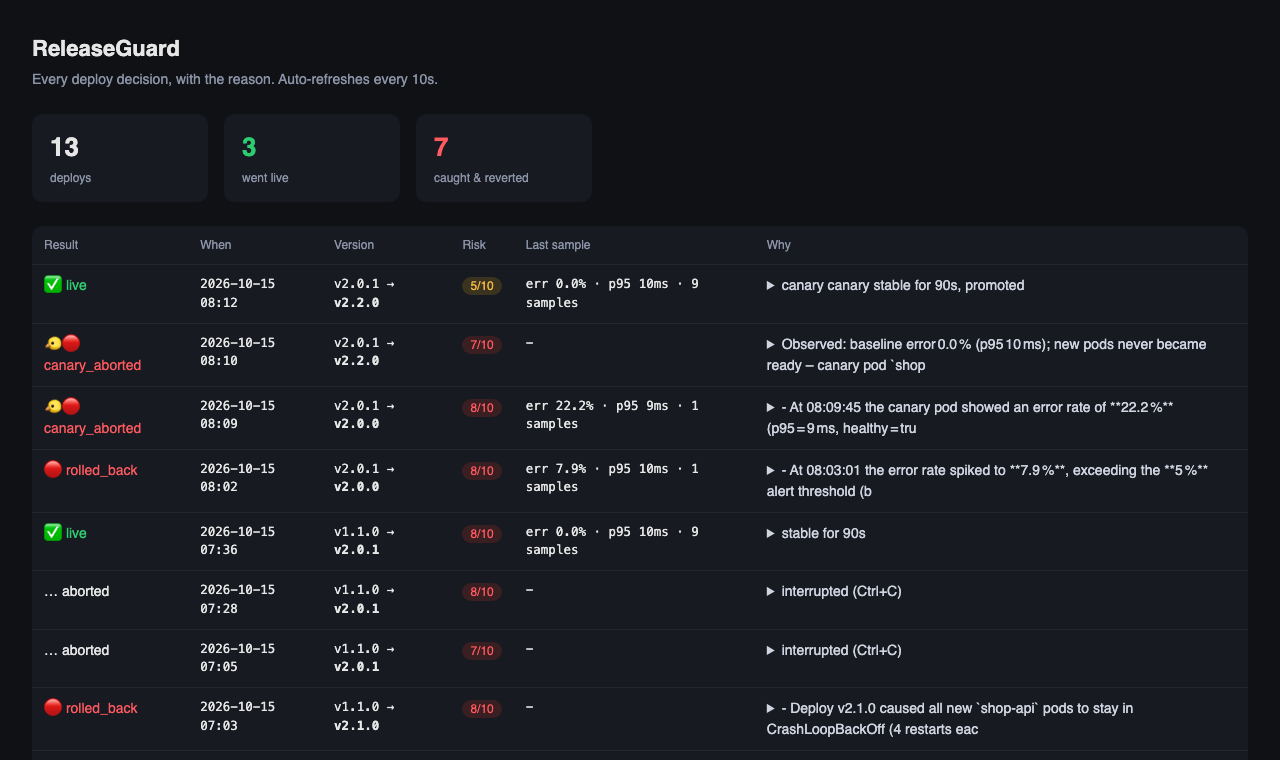
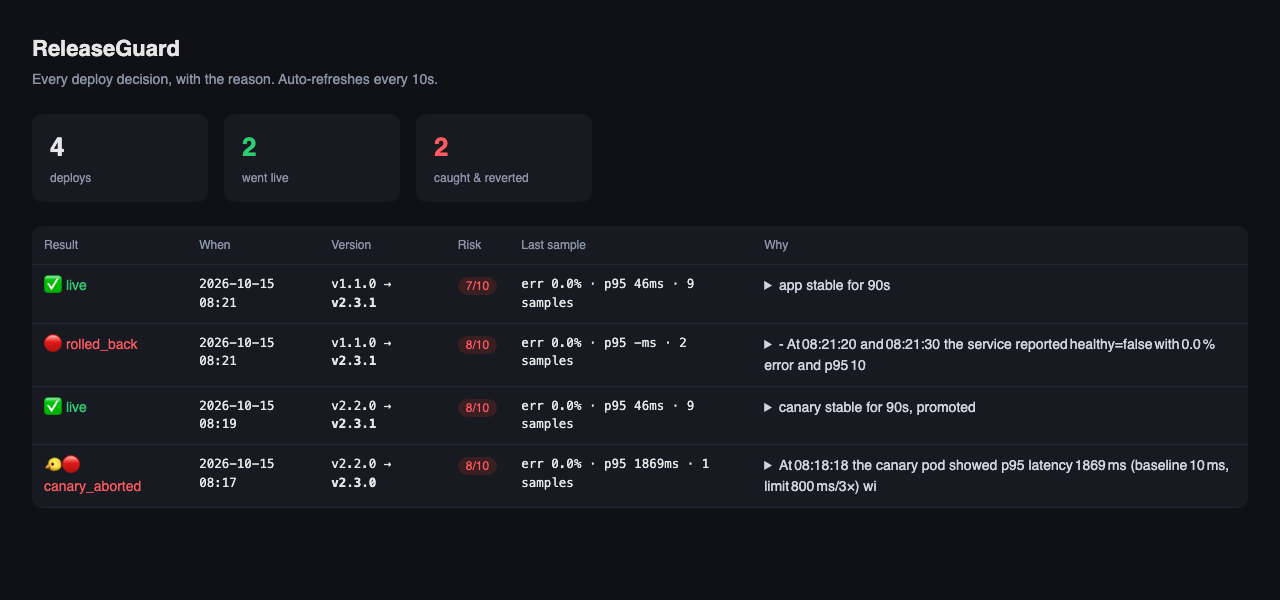
README, demo gif, dashboard screenshot, compose env

diff --git a/README.md b/README.md
@@ -1,0 +1,166 @@
+# ReleaseGuard
+
+**An AI guardrail around deploys.** CI/CD gets code to production. ReleaseGuard watches what happens next, and undoes it when it goes wrong.
+
+Before a deploy it reads the diff and scores the risk. During the deploy it runs the new version as a canary next to the stable pods. After the deploy it watches error rate, latency and pod health in Prometheus, and if the numbers move, it rolls back on its own and posts a plain-English explanation to Slack.
+
+![ReleaseGuard catching a latency regression in a canary and discarding it](docs/demo.gif)
+
+> The canary of `v2.3.0` pushed p95 latency from 10 ms to 1.8 s. ReleaseGuard removed the canary pod, left the stable pods untouched, and explained which lines caused it. Total time: 25 seconds, no human involved.
+
+## Why
+
+```
+Friday 6:30 PM   Dev merges, pipeline is green, dev goes home.
+Friday 7:10 PM   /checkout starts returning 500s. Nobody notices.
+Friday 8:45 PM   A customer tweets. Founder calls the dev.
+Friday 9:40 PM   Rollback done. 2.5 hours of downtime.
+```
+
+Every step in that story is manual work around the deploy, not the deploy itself. "Is this change risky?", "did the error rate move?", "should I roll back?", "what was the previous version?". ReleaseGuard automates exactly those steps.
+
+## What it does
+
+```
+./rg deploy v2.3.0
+         │
+         ▼
+ 1. PRE-CHECK      git diff (running → new)  →  LLM  →  { score 1-10, reasons, flags }
+         │
+         ▼
+ 2. POLICY GATE    score ≥ 7, migration, env change  →  ask a human (Slack + terminal)
+         │
+         ▼
+ 3. CANARY         1 pod of the new version next to the stable pods (k8s)
+         │         or a plain container swap (docker)
+         ▼
+ 4. WATCH          every 10 s for 90 s, canary vs stable, from Prometheus:
+                   5xx rate · p95 latency · pod restarts · readiness
+         │
+    ┌────┴─────┐
+  stable     regression
+    │           │
+    ▼           ▼
+ promote     discard canary / kubectl rollout undo
+ to all      LLM writes the incident note from the numbers, the diff and pod logs
+ pods        → Slack, → audit log
+```
+
+**The rollback decision is made by numbers, not by the model.** The LLM does two things only: score the diff before deploy, and write the explanation after a rollback. Thresholds live in `releaseguard.yml`.
+
+## Scenarios it has caught
+
+| Release | What was wrong | How it was caught | Outcome |
+|---|---|---|---|
+| `v2.0.0` | `coupon.percent` read without a null check, 30 % of checkouts throw | canary 5xx rate 22 % vs stable 0 % after 10 s | canary discarded, stable untouched |
+| `v2.1.0` | new required env var not configured in the cluster | pods in `CrashLoopBackOff`, rollout never ready; pod logs read: `FATAL: PAYMENT_GATEWAY_URL is not set` | rolled back |
+| `v2.3.0` | fraud check awaits a 1.5 s vendor call inside `/checkout` | canary p95 1869 ms vs baseline 10 ms (limit 800 ms) | canary discarded |
+| `v2.2.0`, `v2.3.1` | nothing | 90 s stable on canary | promoted to all pods |
+
+The pre-check flagged every one of the bad releases at 7-8/10 before anything was deployed, with the right reason.
+
+## Dashboard
+
+![audit log dashboard](docs/dashboard.png)
+
+`./rg serve` shows every decision with the risk score, the last metrics sample and the full explanation. Everything is in a local SQLite file; `./rg history` prints the same in the terminal.
+
+## CI
+
+`.github/workflows/precheck.yml` runs the pre-check on every pull request that touches the app and posts the score as a PR comment, so reviewers see the risk before they approve. The deploy/watch/rollback part runs wherever the cluster is reachable.
+
+## Quick start
+
+Requirements: Docker, Node 22+, a free [Groq](https://console.groq.com) key. For the Kubernetes target: `minikube` and `kubectl`.
+
+```bash
+git clone https://github.com/HardCoder404/releaseguard && cd releaseguard
+cp .env.example .env            # add GROQ_API_KEY, optionally SLACK_WEBHOOK_URL
+(cd releaseguard && npm install)
+
+# Docker target (simplest)
+scripts/deploy.sh v1.1.0                               # bring up shop-api + Prometheus
+./rg deploy v2.0.0 --traffic --target docker           # watch it roll back
+
+# Kubernetes target (canary)
+minikube start --driver=docker --ports=30080:30080,30090:30090
+kubectl apply -f k8s/
+./rg deploy v2.3.0 --traffic                           # watch the canary get discarded
+./rg deploy v2.3.1 --traffic                           # watch it get promoted
+./rg serve                                             # dashboard on :4000
+```
+
+`--traffic` runs a small load generator so the metrics have something to show. Without it the watcher tells you the verdict is weak.
+
+### Commands
+
+| Command | What it does |
+|---|---|
+| `./rg deploy <tag> [--yes] [--traffic] [--target docker\|k8s] [--no-canary]` | the full guarded deploy |
+| `./rg precheck <ref> <ref>` | risk analysis only, prints markdown (used by CI) |
+| `./rg status` | what is running, current metrics |
+| `./rg rollback` | manual rollback |
+| `./rg history` / `./rg serve` | audit log, terminal or browser |
+
+### Configuration
+
+```yaml
+# releaseguard/releaseguard.yml
+target: k8s
+k8s: { deployment: shop-api, namespace: default, canary: true }
+precheck:
+  risk_threshold: 7
+  require_approval_if: [migration, env_change]
+watch:
+  window_seconds: 90
+  interval_seconds: 10
+  rollback_if:
+    error_rate_above: 0.05
+    p95_latency_above_ms: 800
+    p95_latency_factor: 3        # or 3x the pre-deploy baseline
+    health_failures: 2
+    pod_restarts_above: 1
+```
+
+## How it is built
+
+```
+releaseguard/
+├── shop-api/            demo app: Express + prom-client, the thing being deployed
+├── infra/               docker-compose (app + Prometheus) for the docker target
+├── k8s/                 Deployment, Service, canary Deployment, ConfigMap,
+│                        Prometheus with kubernetes_sd (finds pods by label)
+├── scripts/             build from a git tag, deploy / rollback / canary, traffic
+├── releaseguard/src/
+│   ├── cli.ts           the flow: precheck → gate → canary|deploy → watch → promote|revert
+│   ├── precheck.ts      diff → heuristics + LLM → risk JSON
+│   ├── policy.ts        threshold + hard rules
+│   ├── metrics.ts       2 PromQL queries + health, scoped to canary or stable
+│   ├── watch.ts         baseline vs now, the actual decision
+│   ├── targets/         docker.ts, k8s.ts: same interface, different kubectl/docker calls
+│   ├── explain.ts       numbers + diff + pod logs → incident note
+│   ├── notify.ts        Slack webhook
+│   ├── db.ts            SQLite audit log (node:sqlite, no native deps)
+│   └── serve.ts         dashboard
+└── .github/workflows/   pre-check on PRs
+```
+
+Stack: TypeScript, Node, Docker, Kubernetes (minikube), Prometheus, Groq (`openai/gpt-oss-120b`), Slack webhooks, SQLite. Zero paid services.
+
+**Design notes**
+
+- *Canary over rolling update.* A rolling update replaces all pods; if the new version is bad, users are already on it. A canary exposes roughly a third of traffic, and a bad canary is deleted rather than rolled back, so stable pods never change.
+- *Scoped metrics.* Prometheus carries a `track` label (`stable` / `canary`) from the pod labels, so the watcher compares the canary to the stable pods side by side instead of to a global average that the stable pods would dilute.
+- *Heuristics under the model.* File-name and diff patterns (migrations, `process.env`, lockfiles) set a floor on the score, so a risky change is never under-reported because the model had a bad day.
+- *Rollout failures are a first-class path.* If the new pods never become ready, `kubectl rollout status` times out, ReleaseGuard reads the crashing pod's logs, undoes the rollout and includes the log line in the explanation.
+
+## Limitations and next steps
+
+- Single cluster, single deployment. Multi-service releases would need a dependency order.
+- The canary share is "1 pod out of N", not a precise traffic percentage. A service mesh or ingress weights would make it exact.
+- The LLM sees the diff of one folder. A real repo would need a path filter per service.
+- No GitHub webhook that triggers the deploy itself; CI runs the pre-check, the deploy is a CLI call where the cluster is.
+
+## Author
+
+Prince Raj · [prince404.in](https://prince404.in) · [GitHub](https://github.com/HardCoder404) · [LinkedIn](https://linkedin.com/in/prince404)
